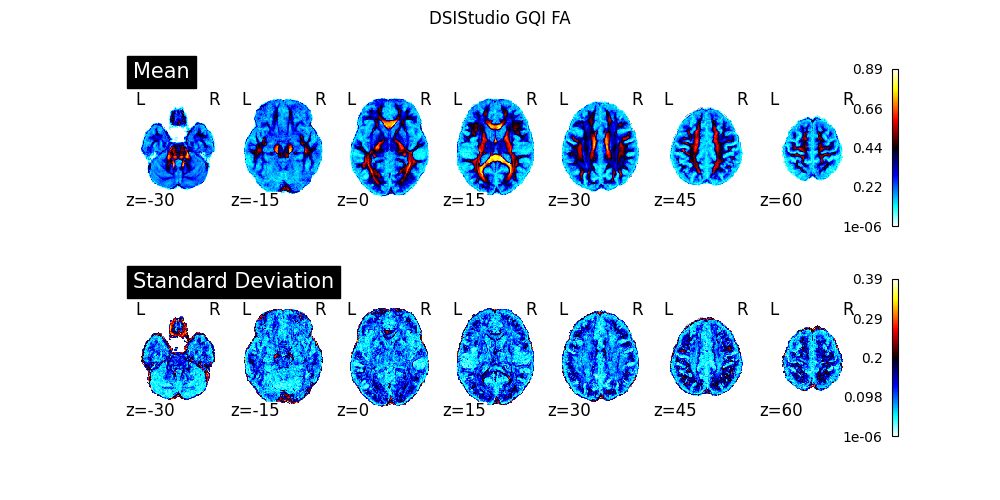
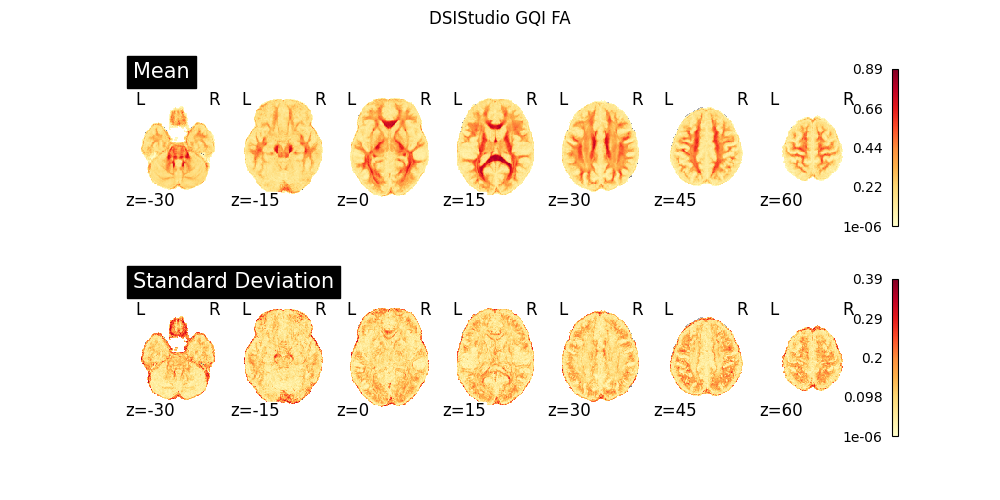
Update.

diff --git a/analysis/plot_qsirecon_scalar_maps.py b/analysis/plot_qsirecon_scalar_maps.py
@@ -34,6 +34,9 @@ if __name__ == "__main__":
             title="Mean",
             axes=axs[0],
             figure=fig,
+            symmetric_cbar=False,
+            vmin=0,
+            cmap="YlOrRd",
         )
         plotting.plot_stat_map(
             sd_img,
@@ -42,6 +45,9 @@ if __name__ == "__main__":
             title="Standard Deviation",
             axes=axs[1],
             figure=fig,
+            symmetric_cbar=False,
+            vmin=0,
+            cmap="YlOrRd",
         )
         fig.suptitle(title)
         plt.savefig(os.path.join(out_dir, f"{title.replace(' ', '_')}.png"))
